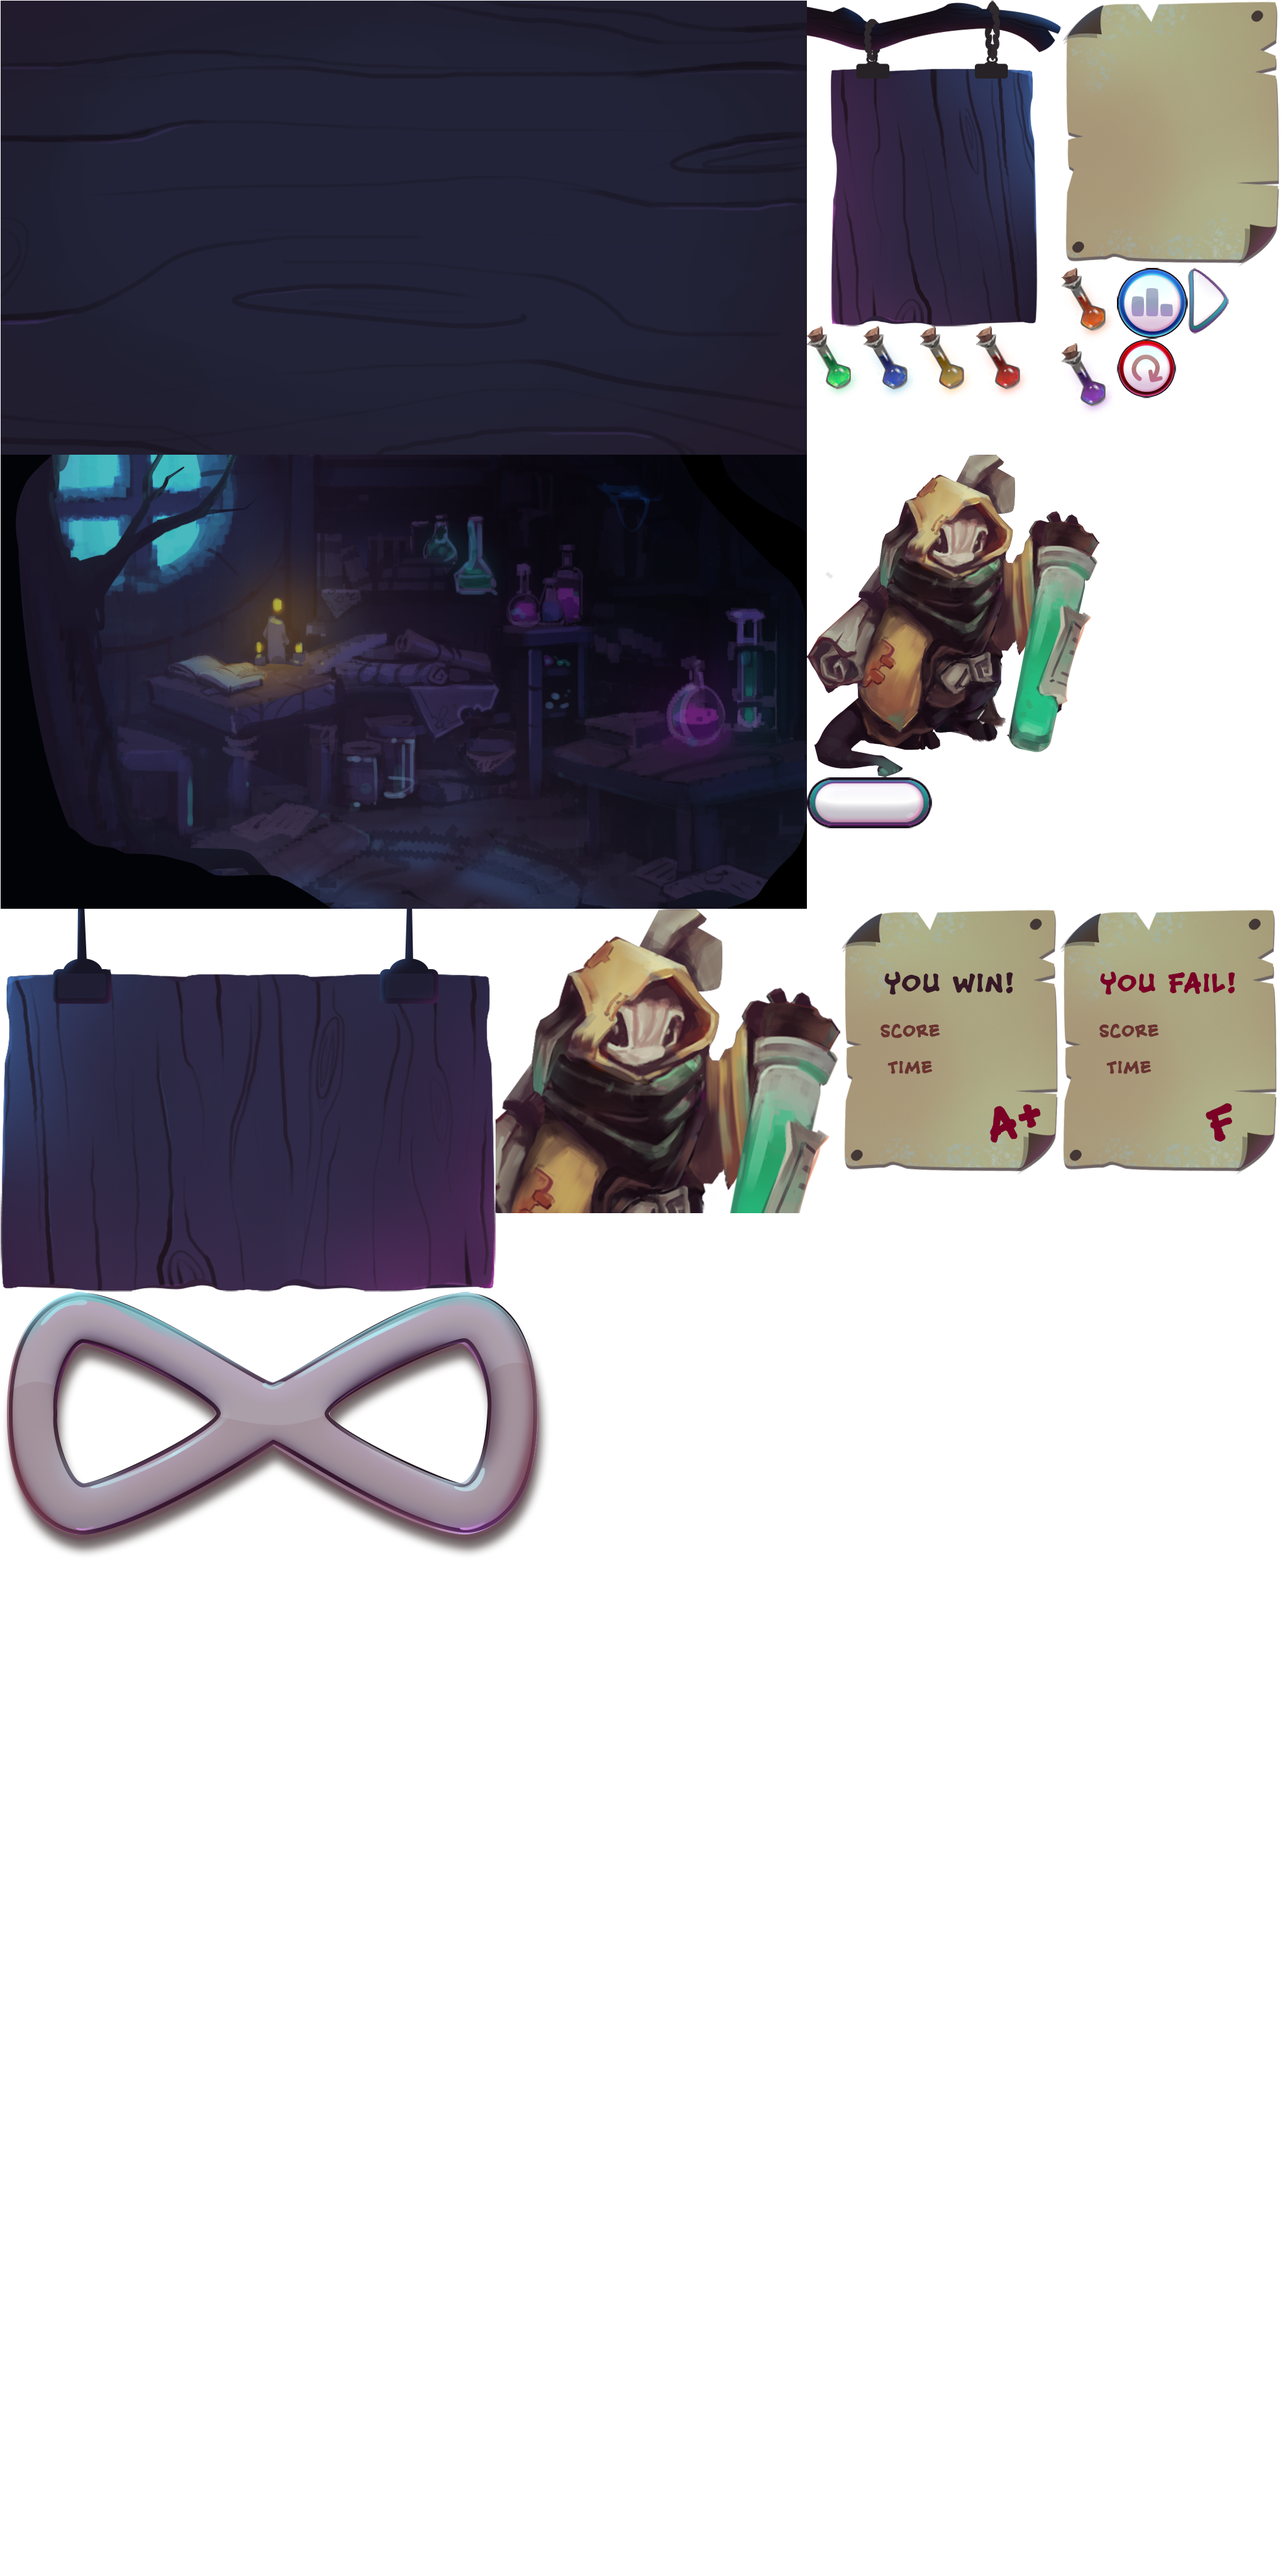
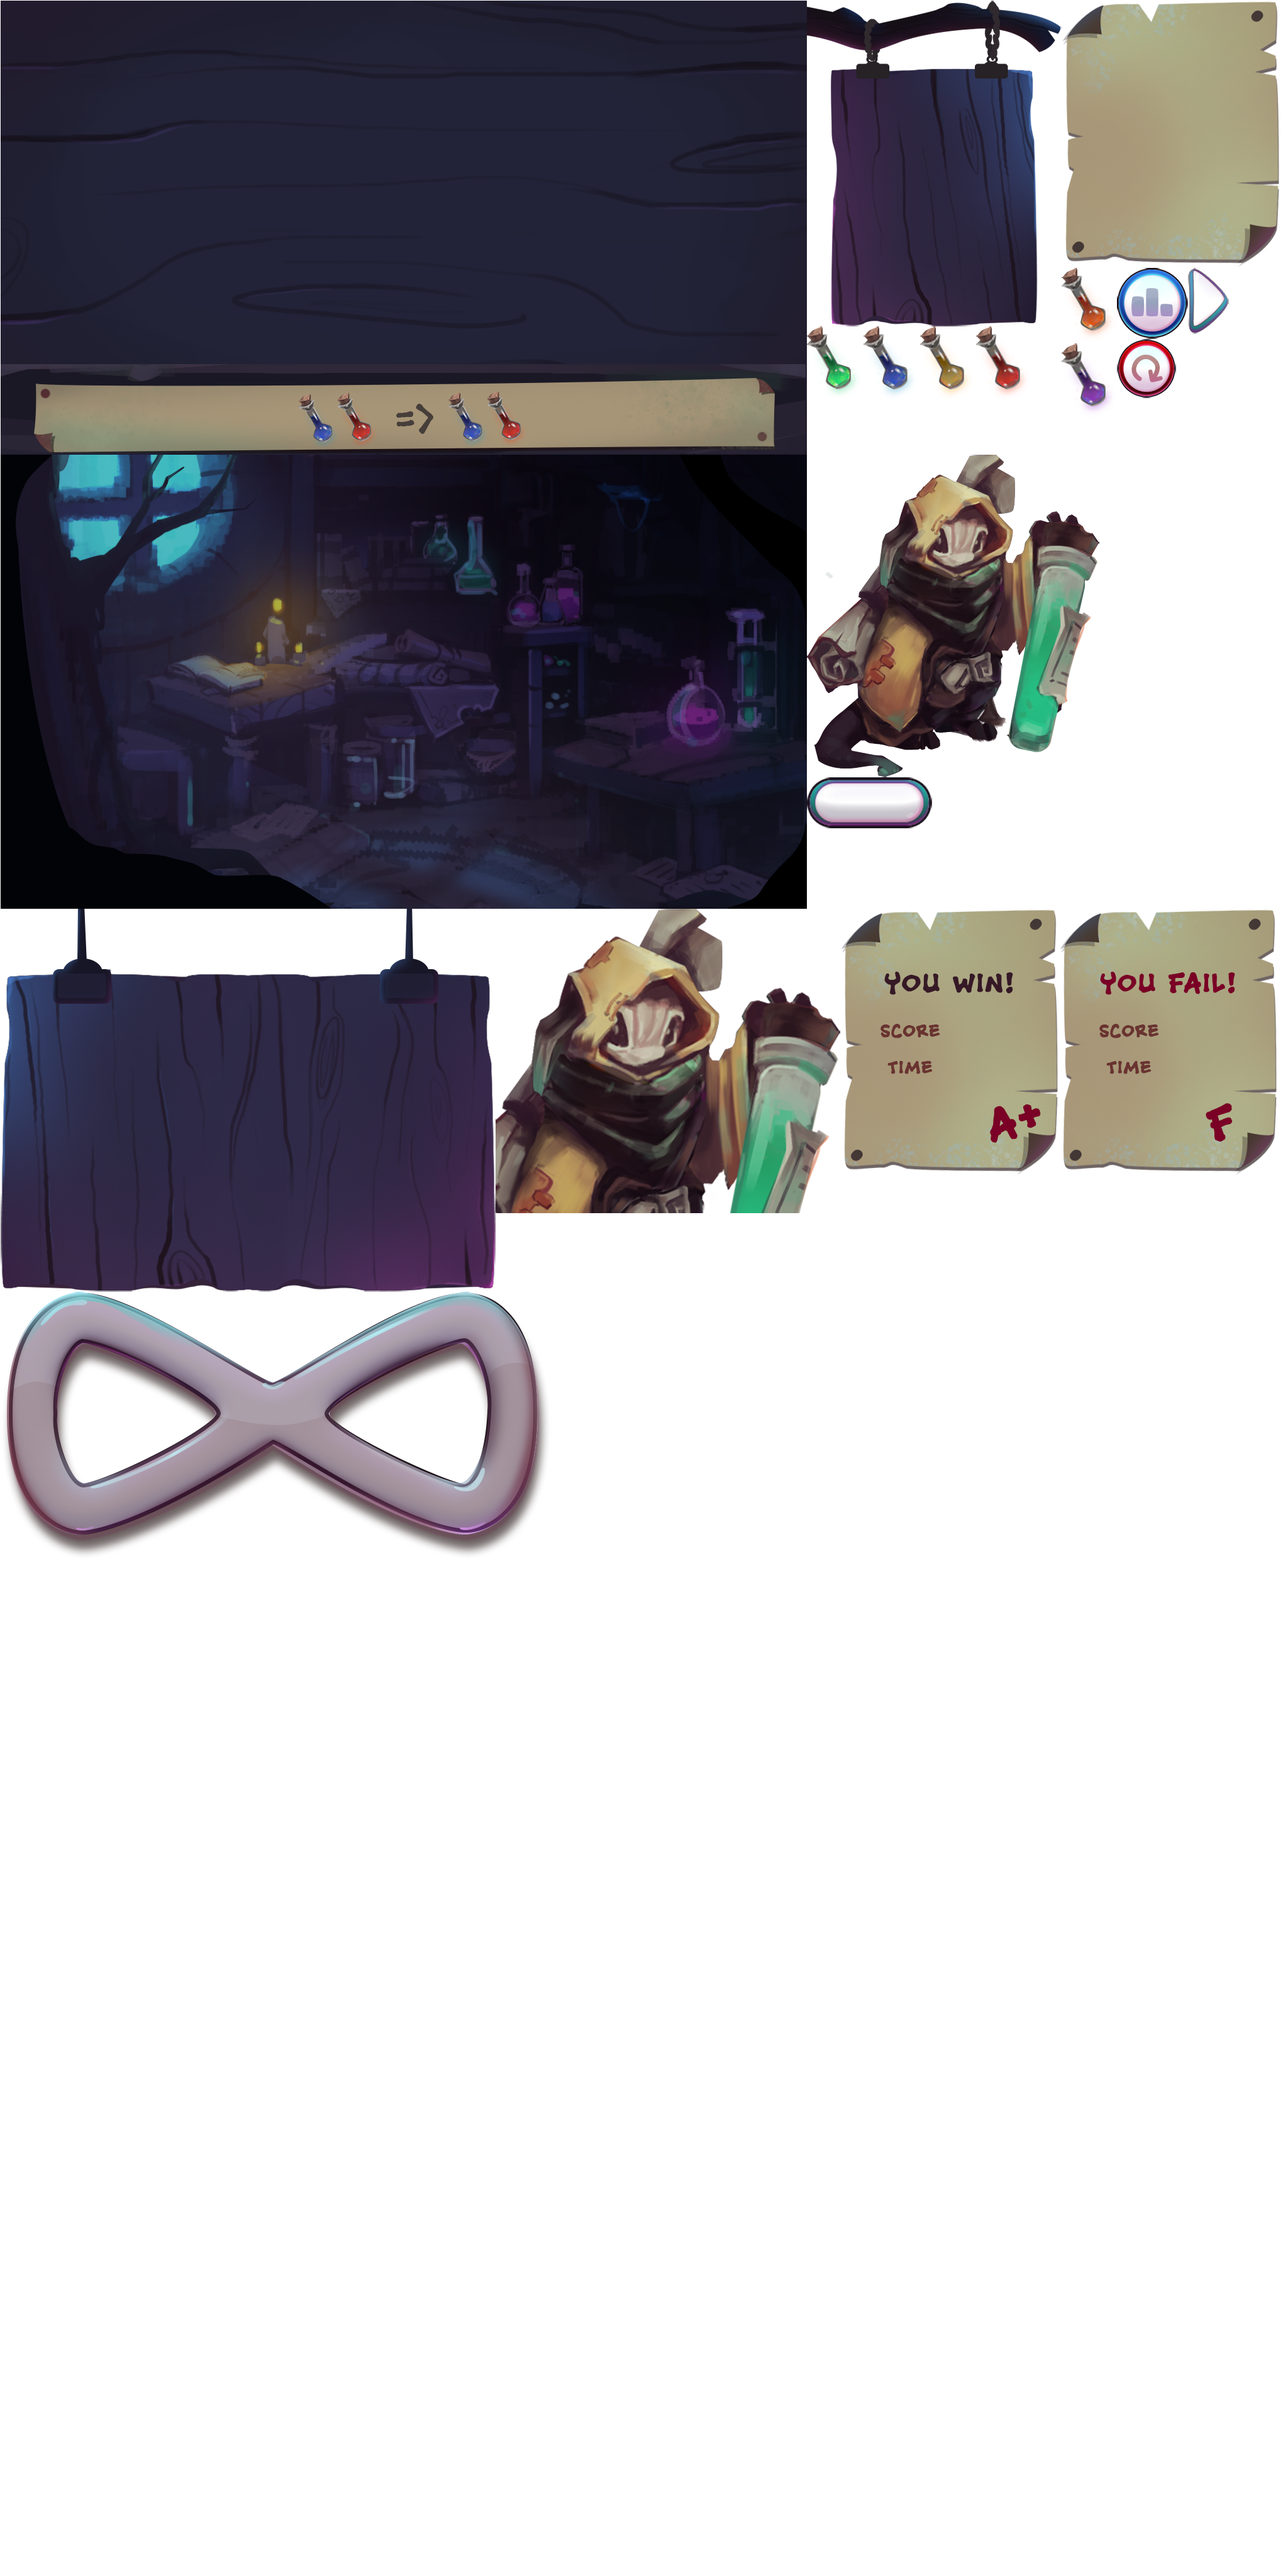
new UI!

Changed region(s): [[0.0312, 0.125, 0.625, 0.1875]]

diff --git a/core/src/com/chemicalmagicians/liquidizer/Liquidizer.java b/core/src/com/chemicalmagicians/liquidizer/Liquidizer.java
@@ -43,6 +43,18 @@ public class Liquidizer extends ApplicationAdapter {
 		levelSelection = new LevelSelection(this);
 
 		gameController = new GameController(this);
+
+
+		System.out.println("    ********************************************************************************");
+		System.out.println("    *   _       _      _      _   _   _   _ _     _   _ _ _    _ _ _   _ _ _       *");
+		System.out.println("    *  | |     | |   / _ \\   | | | | | | |  _ \\  | | |_ _  /  |  _ _| |  _  \\      *");
+		System.out.println("    *  | |     | |  | | | |  | | | | | | | | | | | |    / /   | |_    | |_| |      *");
+		System.out.println("    *  | |     | |  | | | |  | | | | | | | | | | | |   / /    |  _|   |  _  /      *");
+		System.out.println("    *  | |_ _  | |  | | | |  | |_| | | | | |_| | | |  / /_ _  | |_ _  | | \\ \\      *");
+		System.out.println("    *  |_ _ _| |_|   \\ _  \\  |_ _ _| |_| |_ _ /  |_| |_ _ _ | |_ _ _| |_|  \\_\\     *");
+		System.out.println("    *                    \\_|                                                       *");
+		System.out.println("    ********************************************************************************");
+
 	}
 
 	public boolean isGameOn = false;

diff --git a/core/src/com/chemicalmagicians/liquidizer/gamescreens/Gameplay.java b/core/src/com/chemicalmagicians/liquidizer/gamescreens/Gameplay.java
@@ -6,6 +6,7 @@ import com.badlogic.gdx.Input;
 import com.badlogic.gdx.graphics.Color;
 import com.badlogic.gdx.graphics.GL20;
 import com.badlogic.gdx.graphics.Pixmap;
+import com.badlogic.gdx.graphics.Texture;
 import com.badlogic.gdx.graphics.g2d.Batch;
 import com.badlogic.gdx.graphics.g2d.Sprite;
 import com.badlogic.gdx.graphics.g2d.TextureAtlas;
@@ -83,6 +84,12 @@ public class Gameplay extends GameScreen implements IGameplay {
         elixirTexture = new Sprite(atlas.findRegion("elixir-particle"));
         metaBallShader = new ShaderProgram(Gdx.files.internal("shader.vert"), Gdx.files.internal("shader.frag"));
         createCurve();
+
+        if(currentLevel.lvl == 1)
+            setBackground(new TextureRegionDrawable(atlas.findRegion("background")));
+        else if(currentLevel.lvl == 2)
+            setBackground(new TextureRegionDrawable(new Texture("ui/lvl2-back.png")));
+
     }
 
     private void createCurve() {

diff --git a/core/src/com/chemicalmagicians/liquidizer/ui/WinLoseUI.java b/core/src/com/chemicalmagicians/liquidizer/ui/WinLoseUI.java
@@ -2,11 +2,13 @@ package com.chemicalmagicians.liquidizer.ui;
 
 import com.badlogic.gdx.Gdx;
 import com.badlogic.gdx.graphics.Color;
+import com.badlogic.gdx.graphics.Texture;
 import com.badlogic.gdx.graphics.g2d.TextureAtlas;
 import com.badlogic.gdx.scenes.scene2d.InputEvent;
 import com.badlogic.gdx.scenes.scene2d.ui.Image;
 import com.badlogic.gdx.scenes.scene2d.ui.Table;
 import com.badlogic.gdx.scenes.scene2d.utils.ClickListener;
+import com.badlogic.gdx.scenes.scene2d.utils.TextureRegionDrawable;
 import com.badlogic.gdx.utils.Scaling;
 import com.chemicalmagicians.liquidizer.Liquidizer;
 import com.chemicalmagicians.liquidizer.gamescreens.Gameplay;
